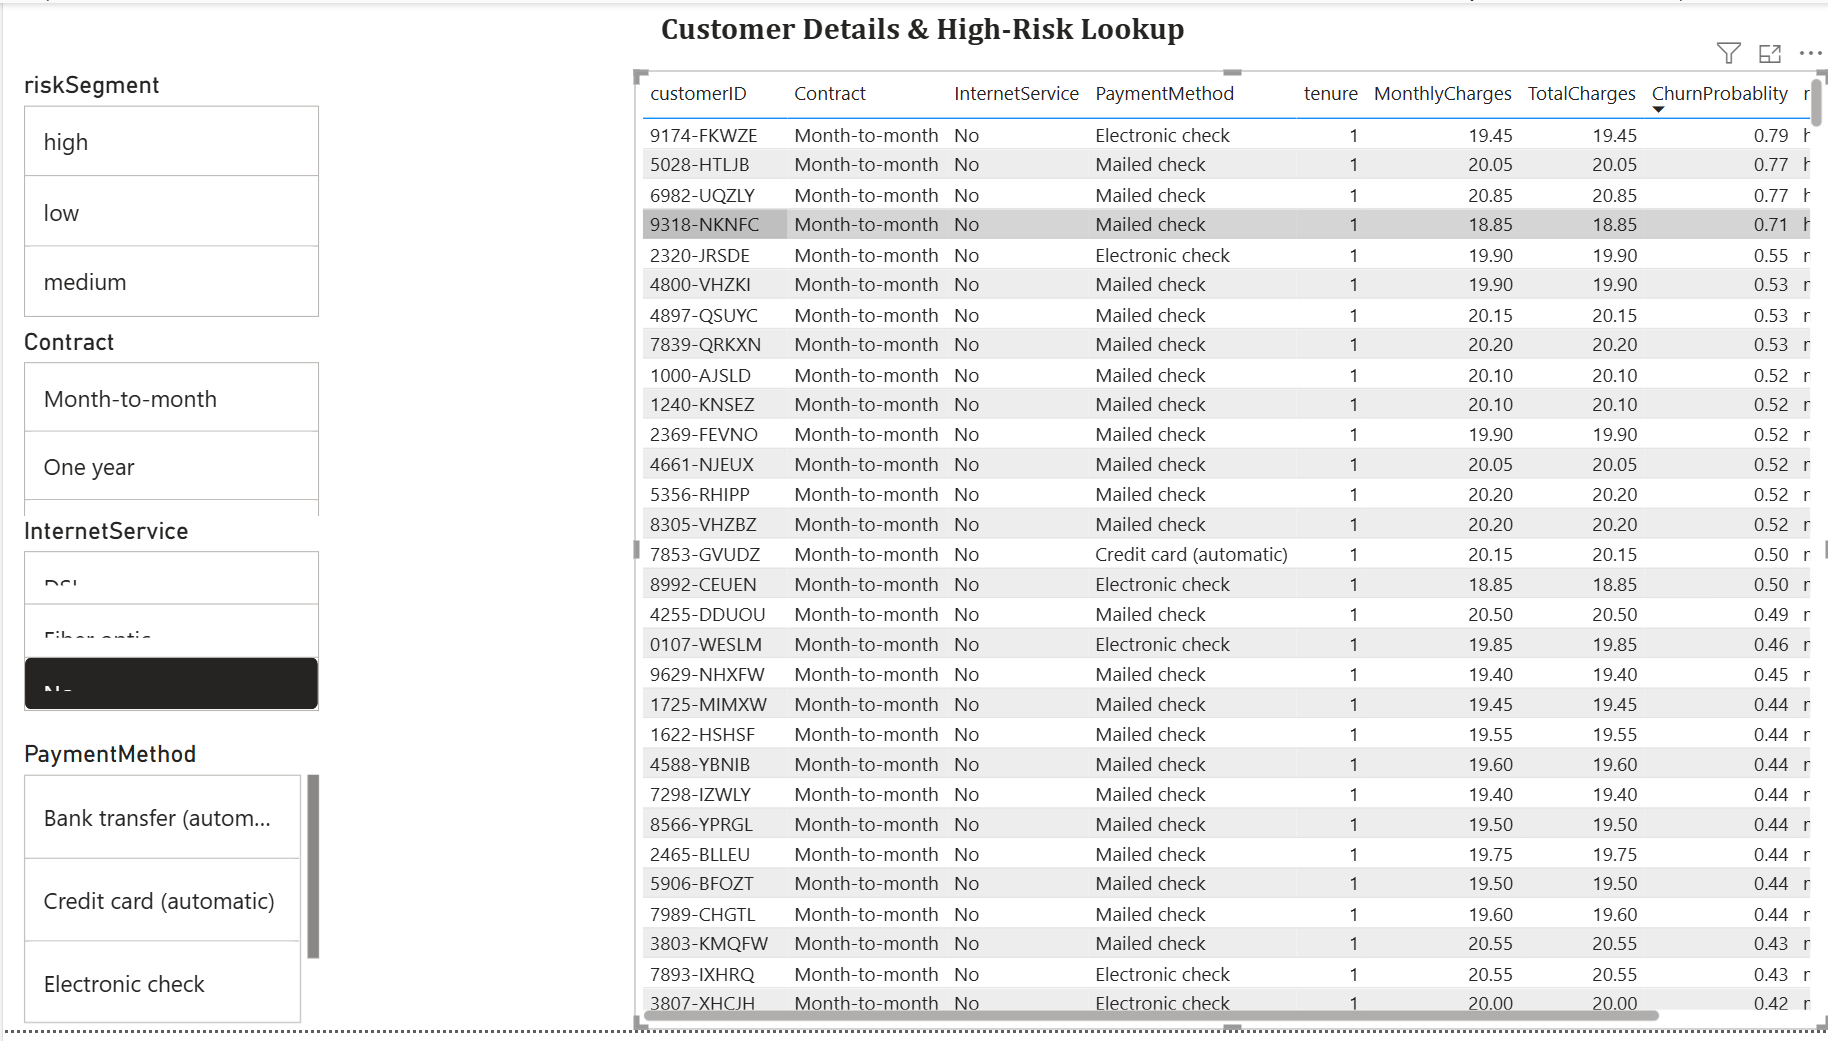
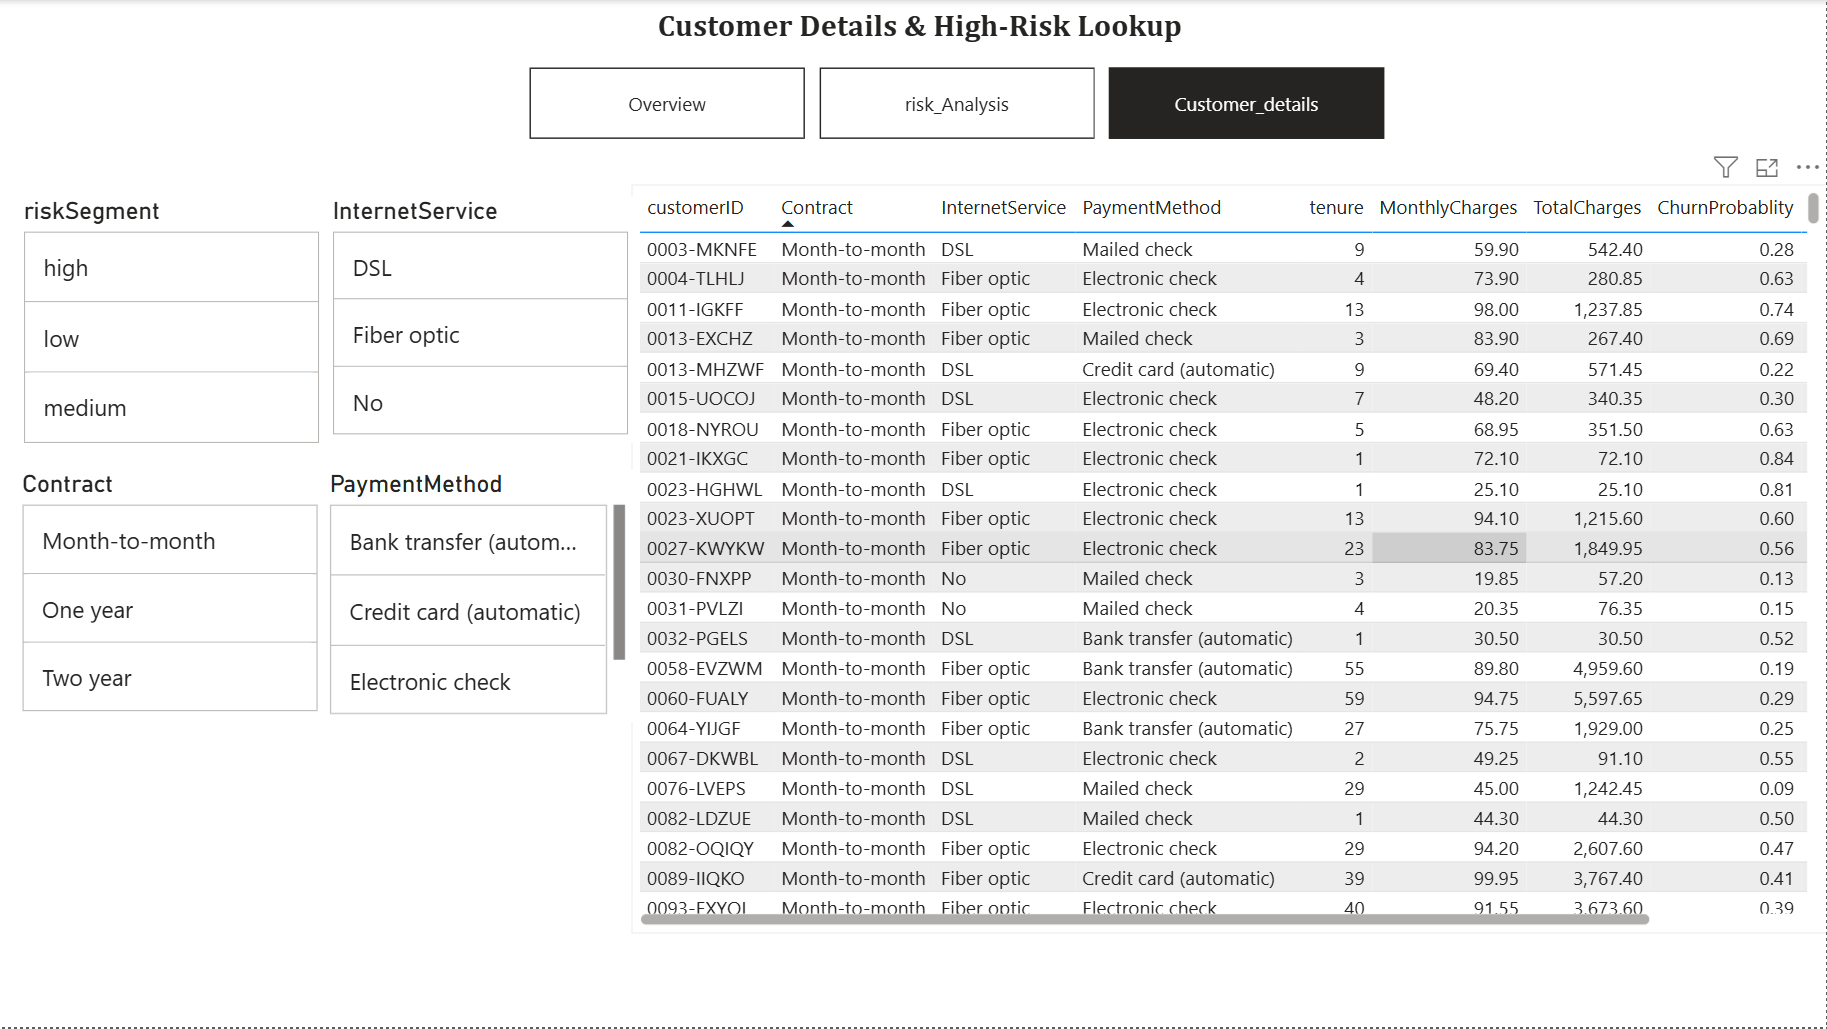
Add live dashboard link and update screenshot

diff --git a/README.md b/README.md
@@ -4,7 +4,11 @@
 This project analyzes customer churn using the IBM Telco Customer Churn dataset. The goal is to identify key churn drivers, build a machine learning model to predict churn probability, and present business insights through an interactive Power BI dashboard.
 
 ## Live Dashboard
-The Power BI dashboard file is included in this repository. A Streamlit version is also available through `app.py` for public web deployment.
+View the deployed interactive Streamlit dashboard here:
+
+[Open Live Dashboard](https://customerchurn-dashboard.streamlit.app/)
+
+The Power BI dashboard file is also included in this repository.
 
 ## Tools Used
 - Python